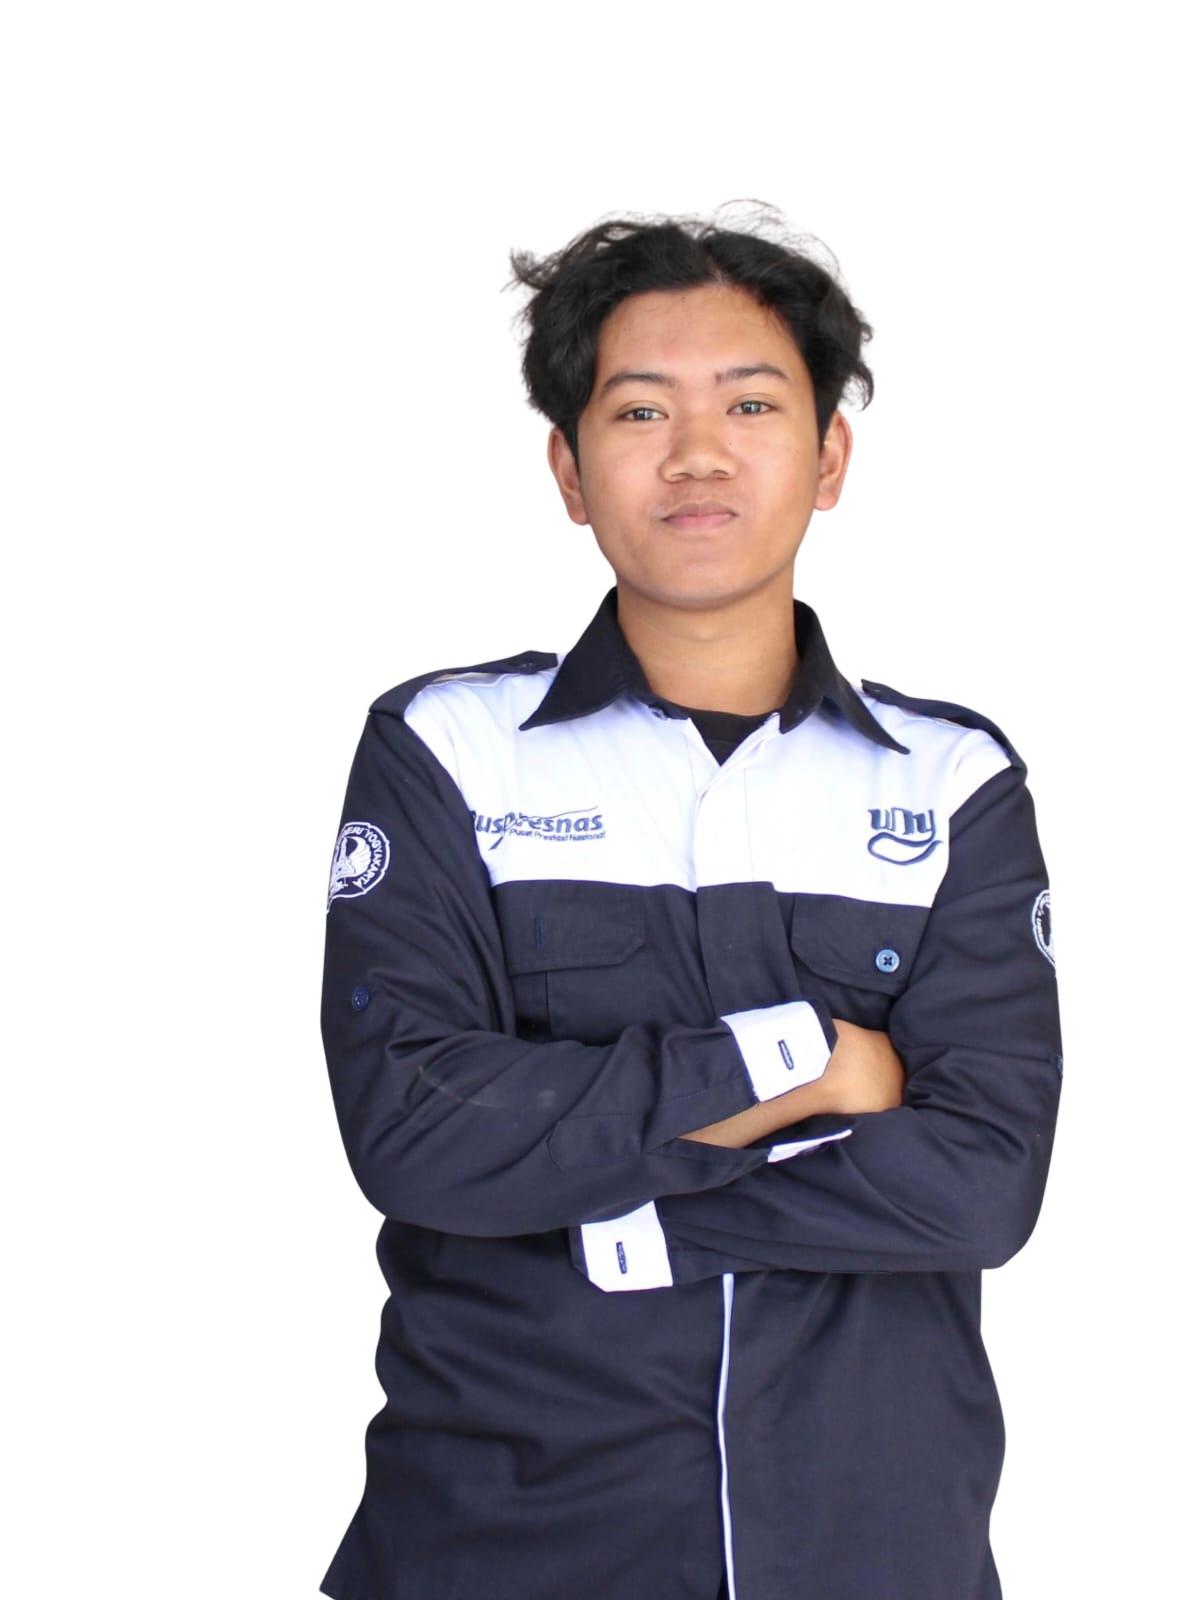
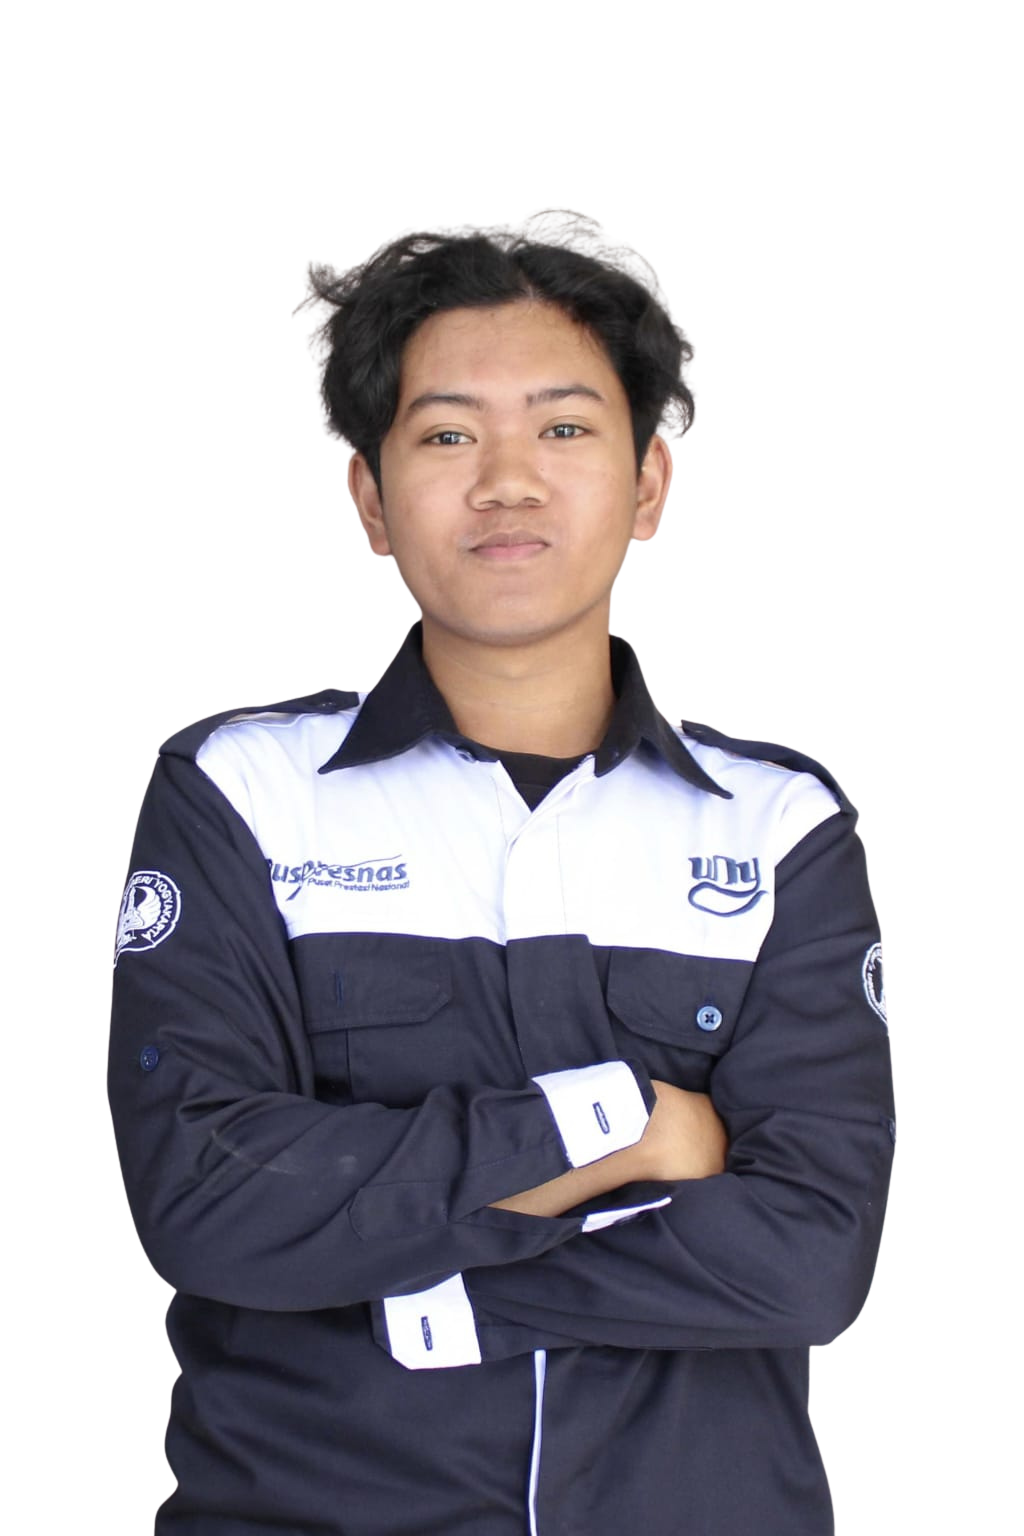
selesai semuanya

diff --git a/src/components/notification-alert-dialog.tsx b/src/components/notification-alert-dialog.tsx
@@ -24,41 +24,91 @@ function initialsFor(name: string) {
 }
 
 export function Component() {
-    const [notifications, setNotifications] = useState<Notification[]>([])
+    const [notifications, setNotifications] = useState<Notification[]>(() => {
+        if (typeof window === "undefined") return []
+        try {
+            return JSON.parse(localStorage.getItem("portfolio-chat-notifications") ?? "[]") as Notification[]
+        } catch {
+            return []
+        }
+    })
     const [isOpen, setIsOpen] = useState(false)
 
     useEffect(() => {
+        const readStored = () => {
+            try {
+                return JSON.parse(localStorage.getItem("portfolio-chat-notifications") ?? "[]") as Notification[]
+            } catch {
+                return []
+            }
+        }
+        const save = (next: Notification[]) => {
+            setNotifications(next)
+            localStorage.setItem("portfolio-chat-notifications", JSON.stringify(next))
+        }
         const handleChatMessage = (event: Event) => {
-            const detail = (event as CustomEvent<{ sender?: string; message?: string }>).detail
+            const detail = (event as CustomEvent<{ id?: string; createdAt?: string; sender?: string; message?: string }>).detail
             const sender = detail?.sender?.trim() || "Chat Room"
             const notification: Notification = {
-                id: `chat-${Date.now()}`,
+                id: detail?.id ?? `chat-${Date.now()}`,
                 sender: { name: sender, initials: initialsFor(sender) },
                 message: detail?.message?.trim() || "Ada pesan baru di Chat Room.",
-                time: "Baru saja",
+                time: detail?.createdAt ? new Date(detail.createdAt).toLocaleString("id-ID") : "Baru saja",
                 read: false,
             }
 
-            setNotifications((current) => [notification, ...current])
+            const current = readStored()
+            save([notification, ...current.filter((item) => item.id !== notification.id)])
             setIsOpen(true)
+        }
+        const handleChatSnapshot = (event: Event) => {
+            const snapshot = (event as CustomEvent<Array<{ id: string; createdAt: string; sender: string; message: string }>>).detail
+            const currentById = new Map(readStored().map((item) => [item.id, item]))
+            const next = snapshot.map((item) => {
+                const existing = currentById.get(item.id)
+                return existing ?? {
+                    id: item.id,
+                    sender: { name: item.sender, initials: initialsFor(item.sender) },
+                    message: item.message,
+                    time: new Date(item.createdAt).toLocaleString("id-ID"),
+                    read: false,
+                }
+            })
+            const hasNew = next.some((item) => !currentById.has(item.id))
+            save(next)
+            if (hasNew) setIsOpen(true)
+        }
+        const handleChatOpened = () => {
+            save([])
+            setIsOpen(false)
         }
 
         window.addEventListener("portfolio:chat-message", handleChatMessage)
-        return () => window.removeEventListener("portfolio:chat-message", handleChatMessage)
+        window.addEventListener("portfolio:chat-snapshot", handleChatSnapshot)
+        window.addEventListener("portfolio:open-chat", handleChatOpened)
+        return () => {
+            window.removeEventListener("portfolio:chat-message", handleChatMessage)
+            window.removeEventListener("portfolio:chat-snapshot", handleChatSnapshot)
+            window.removeEventListener("portfolio:open-chat", handleChatOpened)
+        }
     }, [])
 
     const unreadCount = notifications.filter((notification) => !notification.read).length
 
     const markAsRead = (id: string) => {
-        setNotifications((current) =>
-            current.map((notification) =>
+        setNotifications((current) => {
+            const next = current.map((notification) =>
                 notification.id === id ? { ...notification, read: true } : notification,
-            ),
-        )
+            )
+            localStorage.setItem("portfolio-chat-notifications", JSON.stringify(next))
+            return next
+        })
     }
 
     const markAllAsRead = () => {
-        setNotifications((current) => current.map((notification) => ({ ...notification, read: true })))
+        setNotifications([])
+        localStorage.removeItem("portfolio-chat-notifications")
+        setIsOpen(false)
     }
 
     return (

diff --git a/src/app/globals.css b/src/app/globals.css
@@ -139,11 +139,11 @@ button { font: inherit; }
   width: max-content;
   z-index: 50;
 }
-.floating-nav-wrap-theme-transition { z-index: 260; }
+.floating-nav-wrap-theme-transition { isolation: isolate; z-index: 2147483648; }
 .floating-nav-wrap-theme-transition .floating-nav { background: transparent; border-color: transparent; box-shadow: none; }
 .floating-nav-wrap-theme-transition .floating-nav > *:not(.floating-nav-actions),
 .floating-nav-wrap-theme-transition .floating-nav-actions > *:not(.theme-icon-button) { opacity: 0; visibility: hidden; }
-.floating-nav-wrap-theme-transition .theme-icon-button { opacity: 1; visibility: visible; position: relative; z-index: 2; }
+.floating-nav-wrap-theme-transition .theme-icon-button { opacity: 1; isolation: isolate; visibility: visible; position: relative; z-index: 2147483649; }
 
 .floating-nav {
   align-items: center;
@@ -200,7 +200,17 @@ button { font: inherit; }
 .nav-contact-button { align-items: center; background: var(--accent); border-radius: 999px; color: #fff; display: inline-flex; flex: 0 0 auto; font-size: .84rem; font-weight: 650; gap: 9px; height: 44px; justify-content: center; padding: 0 18px; transition: background-color 160ms ease; }
 .nav-contact-button:hover { background: #1d4ed8; }
 .nav-contact-button svg { height: 14px; width: 14px; }
-.theme-transition-wipe { inset: 0; pointer-events: none; position: fixed; z-index: 250; }
+.theme-transition-wipe { background: var(--background); clip-path: circle(0px at var(--theme-origin-x) var(--theme-origin-y)); inset: 0; pointer-events: none; position: fixed; z-index: 2147483647; will-change: clip-path; }
+.theme-transition-wipe.is-expanding { animation: theme-transition-expand 520ms cubic-bezier(.22, 1, .36, 1) forwards; }
+.theme-transition-wipe.is-contracting { animation: theme-transition-contract 420ms cubic-bezier(.22, 1, .36, 1) forwards; }
+@keyframes theme-transition-expand {
+  from { clip-path: circle(0px at var(--theme-origin-x) var(--theme-origin-y)); }
+  to { clip-path: circle(200vmax at var(--theme-origin-x) var(--theme-origin-y)); }
+}
+@keyframes theme-transition-contract {
+  from { clip-path: circle(200vmax at var(--theme-origin-x) var(--theme-origin-y)); }
+  to { clip-path: circle(0px at var(--theme-origin-x) var(--theme-origin-y)); }
+}
 .chat-notification { bottom: 16px; display: flex; flex-direction: column; gap: 10px; position: fixed; right: 16px; z-index: 45; }
 .chat-notification-panel { animation: chat-notification-panel-in 220ms ease-out; background: var(--surface); border: 1px solid var(--line); border-radius: 16px; box-shadow: 0 18px 44px rgb(15 23 42 / 20%); color: var(--foreground); overflow: hidden; width: min(360px, calc(100vw - 32px)); }
 .chat-notification-header { align-items: center; border-bottom: 1px solid var(--line); display: flex; justify-content: space-between; padding: 16px 18px; }
@@ -217,8 +227,8 @@ button { font: inherit; }
 .chat-notification-avatar { align-items: center; background: color-mix(in srgb, var(--accent) 22%, var(--surface)); border-radius: 50%; color: var(--accent); display: inline-flex; flex: 0 0 36px; font-size: .75rem; font-weight: 750; height: 36px; justify-content: center; }
 .chat-notification-copy { display: grid; gap: 3px; min-width: 0; }
 .chat-notification-copy strong { font-size: .79rem; }
-.chat-notification-copy > span { color: var(--muted); font-size: .75rem; line-height: 1.35; overflow-wrap: anywhere; }
-.chat-notification-copy small { align-items: center; color: var(--muted); display: flex; font-size: .68rem; gap: 4px; }
+.chat-notification-copy > span { color: var(--foreground); font-size: .75rem; line-height: 1.35; overflow-wrap: anywhere; }
+.chat-notification-copy small { align-items: center; color: var(--foreground); display: flex; font-size: .68rem; gap: 4px; }
 .chat-notification-copy small svg { height: 12px; width: 12px; }
 .chat-notification-unread { background: var(--accent); border-radius: 50%; flex: 0 0 7px; height: 7px; margin-left: auto; margin-top: 6px; width: 7px; }
 .chat-notification-empty { color: var(--muted); font-size: .78rem; margin: 12px 4px; text-align: center; }

diff --git a/src/components/ui/navigation-menu.tsx b/src/components/ui/navigation-menu.tsx
@@ -1,7 +1,8 @@
 "use client";
 
 import * as React from "react";
-import { AnimatePresence, motion, useMotionValueEvent, useScroll, type Variants } from "framer-motion";
+import { createPortal } from "react-dom";
+import { motion, useMotionValueEvent, useScroll, type Variants } from "framer-motion";
 import { ArrowUpRight, Menu, MessageCircle, Moon, Navigation, Sun } from "lucide-react";
 import GooeyNav from "@/components/GooeyNav";
 import { cn } from "@/lib/utils";
@@ -78,6 +79,7 @@ export function AnimatedNavFramer() {
     typeof window !== "undefined" && window.localStorage.getItem("portfolio-theme") === "dark" ? "dark" : "light"
   ));
   const [transitionTheme, setTransitionTheme] = React.useState<"light" | "dark" | null>(null);
+  const [transitionPhase, setTransitionPhase] = React.useState<"expand" | "contract">("expand");
   const [themeOrigin, setThemeOrigin] = React.useState({ x: 0, y: 0 });
   const themeButtonRef = React.useRef<HTMLButtonElement>(null);
   const themeTransitionTimer = React.useRef<number | null>(null);
@@ -273,9 +275,11 @@ export function AnimatedNavFramer() {
             type="button"
             onClick={(event) => {
               event.stopPropagation();
+              if (transitionTheme) return;
               const nextTheme = theme === "light" ? "dark" : "light";
               const bounds = themeButtonRef.current?.getBoundingClientRect();
               if (bounds) setThemeOrigin({ x: bounds.left + bounds.width / 2, y: bounds.top + bounds.height / 2 });
+              setTransitionPhase("expand");
               setTransitionTheme(nextTheme);
               if (themeTransitionTimer.current !== null) window.clearTimeout(themeTransitionTimer.current);
               themeTransitionTimer.current = window.setTimeout(() => {
@@ -283,10 +287,13 @@ export function AnimatedNavFramer() {
                 document.documentElement.dataset.theme = nextTheme;
                 window.localStorage.setItem("portfolio-theme", nextTheme);
                 themeTransitionTimer.current = window.setTimeout(() => {
-                  setTransitionTheme(null);
-                  themeTransitionTimer.current = null;
-                }, 560);
-              }, 430);
+                  setTransitionPhase("contract");
+                  themeTransitionTimer.current = window.setTimeout(() => {
+                    setTransitionTheme(null);
+                    themeTransitionTimer.current = null;
+                  }, 420);
+                }, 120);
+              }, 520);
             }}
             aria-label="Toggle light/dark mode"
           >
@@ -317,21 +324,19 @@ export function AnimatedNavFramer() {
           </motion.div>
         </div>
       </motion.nav>
-      <AnimatePresence>
-        {transitionTheme && <motion.div
-          className="theme-transition-wipe"
-          initial={{ clipPath: `circle(0% at ${themeOrigin.x}px ${themeOrigin.y}px)` }}
-          animate={[
-            `circle(160% at ${themeOrigin.x}px ${themeOrigin.y}px)`,
-            `circle(160% at ${themeOrigin.x}px ${themeOrigin.y}px)`,
-            `circle(0% at ${themeOrigin.x}px ${themeOrigin.y}px)`,
-          ]}
-          exit={{ opacity: 0 }}
-          transition={{ duration: 0.86, times: [0, 0.48, 1], ease: [0.22, 1, 0.36, 1] }}
-          style={{ background: transitionTheme === "dark" ? "#0b1220" : "#f8fafc" }}
+      {transitionTheme && typeof document !== "undefined" && createPortal(
+        <div
+          key={`${transitionTheme}-${themeOrigin.x}-${themeOrigin.y}`}
+          className={`theme-transition-wipe${transitionPhase === "contract" ? " is-contracting" : " is-expanding"}`}
+          style={{
+            "--theme-origin-x": `${themeOrigin.x}px`,
+            "--theme-origin-y": `${themeOrigin.y}px`,
+            background: transitionTheme === "dark" ? "#0b1220" : "#f8fafc",
+          } as React.CSSProperties}
           aria-hidden="true"
-        />}
-      </AnimatePresence>
+        />,
+        document.body,
+      )}
     </div>
   );
 }

diff --git a/src/components/chat-room.tsx b/src/components/chat-room.tsx
@@ -107,11 +107,24 @@ export default function ChatRoom() {
             const newMessage = nextMessages.find((message) => !previousIds.has(message.id));
             if (newMessage) {
               window.dispatchEvent(new CustomEvent("portfolio:chat-message", {
-                detail: { sender: newMessage.display_name, message: newMessage.content },
+                detail: {
+                  id: newMessage.id,
+                  createdAt: newMessage.created_at,
+                  sender: newMessage.display_name,
+                  message: newMessage.content,
+                },
               }));
             }
           }
           knownMessageIds.current = new Set(nextMessages.map((message) => message.id));
+          window.dispatchEvent(new CustomEvent("portfolio:chat-snapshot", {
+            detail: nextMessages.map((message) => ({
+              id: message.id,
+              createdAt: message.created_at,
+              sender: message.display_name,
+              message: message.content,
+            })),
+          }));
           setMessages(nextMessages);
         }
         if (active) setErrorMessage("");

diff --git a/src/components/sections/education-skills-section.tsx b/src/components/sections/education-skills-section.tsx
@@ -7,7 +7,7 @@ import { Dock, DockIcon } from "@/components/ui/dock";
 import autoCAD from "@/ES/AutoCAD.png";
 import arduinoIDE from "@/ES/Arduino IDE.png";
 import cxProgrammer from "@/ES/CX Programmer.png";
-import devCpp from "@/ES/Dev C++.png";
+import devCpp from "@/ES/DevCpp.png";
 import eagle from "@/ES/EAGLE.png";
 import fluidSIM from "@/ES/FluidSIM.png";
 import jupyter from "@/ES/Jupyter.png";
@@ -16,7 +16,7 @@ import microsoftOffice from "@/ES/Microsoft Office.png";
 import proteus from "@/ES/Proteus.png";
 import sketchUp from "@/ES/SketchUp.png";
 import vsCode from "@/ES/VSCode.png";
-import cpp from "@/PWD/C++.png";
+import cpp from "@/PWD/Cpp.png";
 import css from "@/PWD/CSS.png";
 import firebase from "@/PWD/Firebase.png";
 import html from "@/PWD/HTML.png";

diff --git a/src/components/ui/dock.tsx b/src/components/ui/dock.tsx
@@ -30,7 +30,7 @@ export function DockIcon({ href, name, src }: DockIconProps) {
   return (
     <li className="dock-item">
       <a className="dock-link" href={href} aria-label={name}>
-        <Image className="dock-image" src={src} alt="" />
+        <Image className="dock-image" src={src} alt="" width={38} height={38} sizes="30px" />
         <span className="dock-tooltip" aria-hidden="true">
           {name}
         </span>
